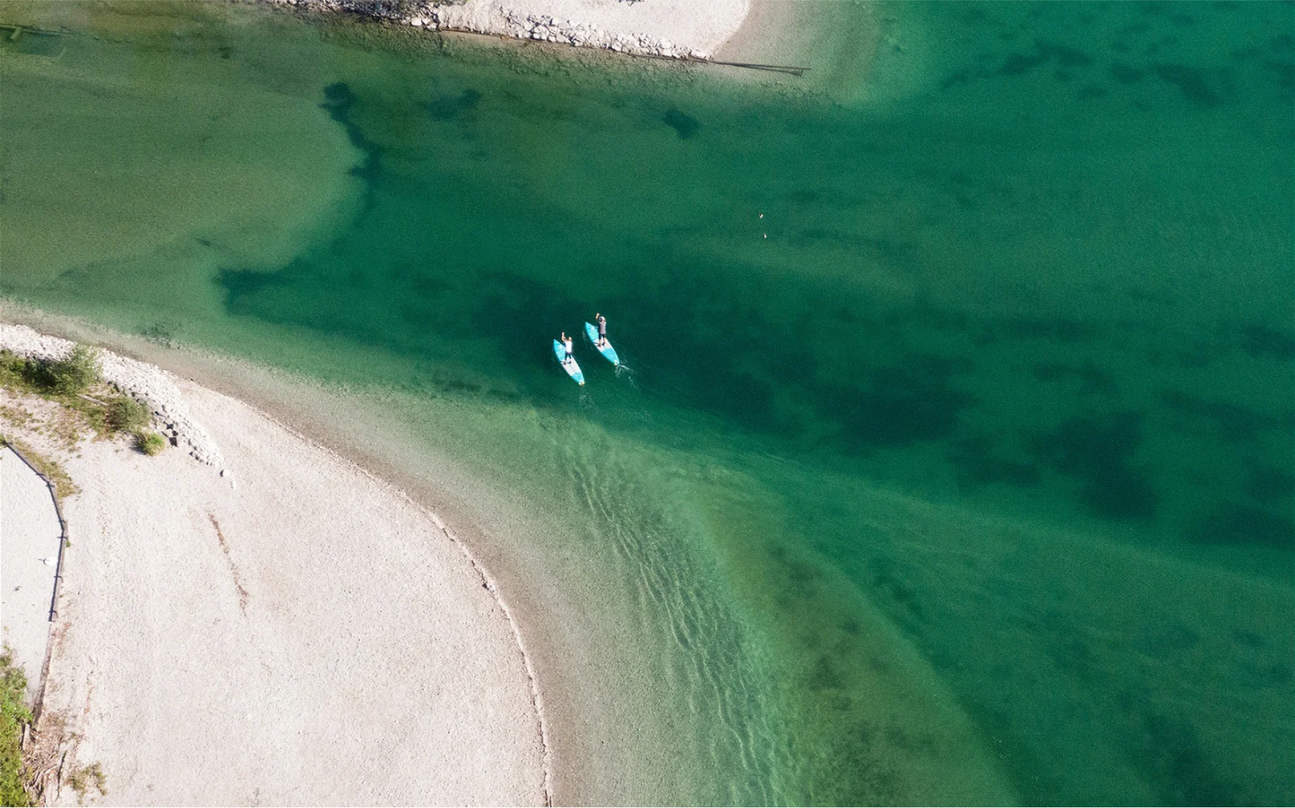
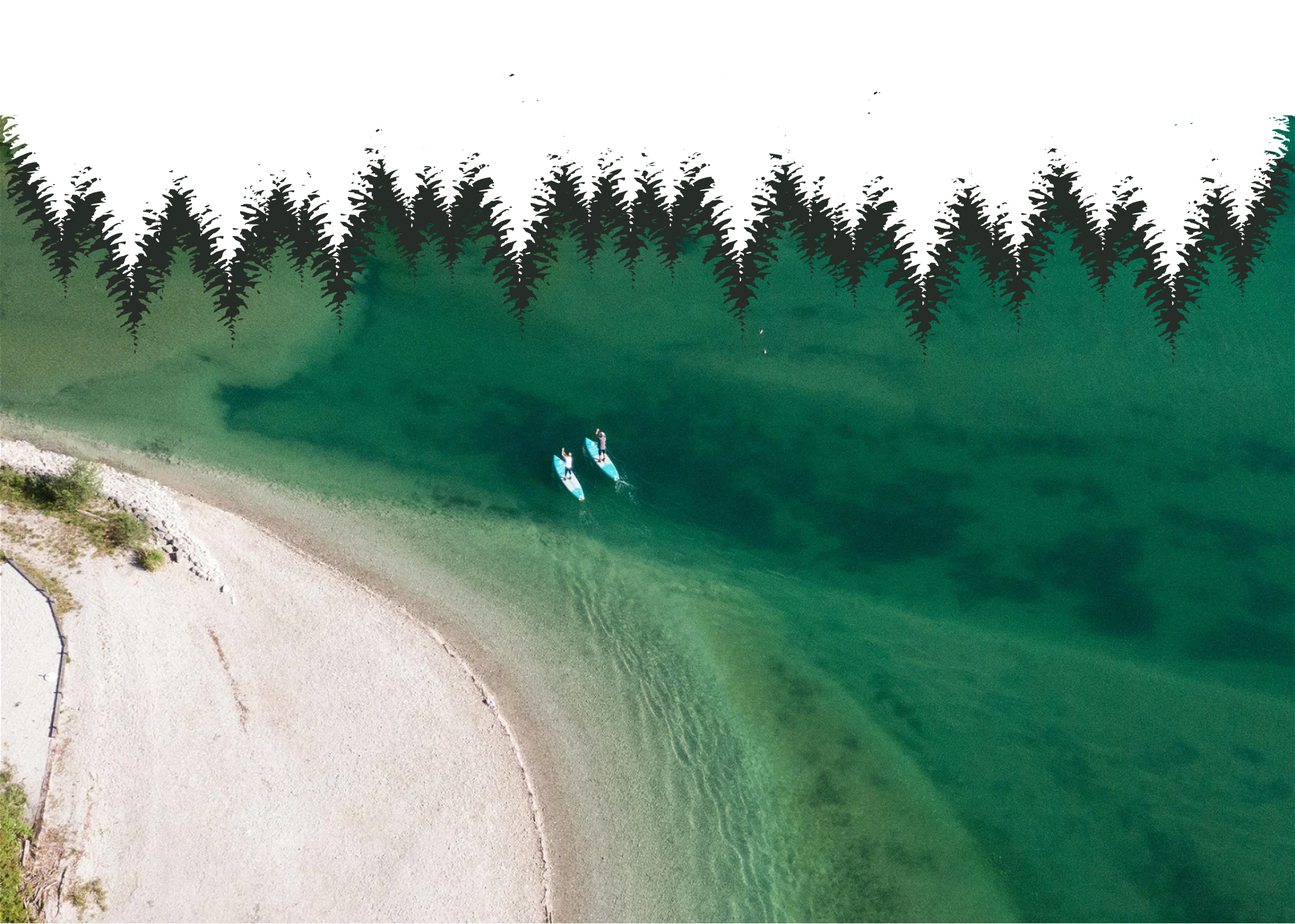
added styles for the technology section

diff --git a/css/style.css b/css/style.css
@@ -32,6 +32,18 @@ ul {
   list-style-type: none;
 }
 
+img {
+  object-fit: cover;
+}
+
+.title {
+  font-family: 'Comfortaa', cursive;
+  text-transform: uppercase;
+  font-size: 60px;
+  line-height: 67px;
+  font-weight: 400;
+}
+
 .container {
   max-width: 1230px;
   padding: 0 15px;
@@ -218,6 +230,7 @@ ul {
   border: none;
   cursor: pointer;
   background-color: transparent;
+  position: absolute;
 }
 
 .popup-btn span {
@@ -275,7 +288,7 @@ ul {
 }
 
 .buy {
-  padding: 150px 0;
+  padding: 150px 0 0;
 }
 
 .buy__inner {
@@ -290,11 +303,7 @@ ul {
 }
 
 .buy__title {
-  font-family: 'Comfortaa', cursive;
-  text-transform: uppercase;
   margin-bottom: 50px;
-  font-size: 60px;
-  line-height: 67px;
   color: #0093A1;
 }
 
@@ -355,6 +364,155 @@ ul {
   background-color: #B9C400;
   border-color: #B9C400;
 }
+
+.technology {
+  margin-bottom: 150px;
+}
+
+.technology__top {
+  background-image: url(../images/technology-bg.png);
+  background-repeat: no-repeat;
+  background-position: center;
+  background-size: cover;
+}
+
+.technology__top-inner {
+  position: relative;
+  min-height: 120vh;
+}
+
+.technology__btn {
+  right: 350px;
+  top: 50vh;
+}
+
+.technology__top-box {
+  position: absolute;
+  left: 0;
+  bottom: 70px;
+}
+
+.technology__title {
+  max-width: 470px;
+  margin-bottom: 62px;
+}
+
+
+.technology__list {
+  margin: 0;
+  padding-left: 20px;
+}
+
+.technology__list-item {
+  padding-left: 24px;
+  font-weight: 700;
+  font-size: 20px;
+  line-height: 24px;
+  margin-bottom: 15px;
+}
+
+.gallery__box {
+  display: flex;
+  gap: 68px;
+  margin-top: 115px;
+}
+
+.gallery__text {
+  width: 350px;
+}
+
+.gallery-min {
+  display: grid;
+  gap: 30px 24px;
+  grid-template-columns: 481px 208px;
+  grid-template-rows: 432px 300px;
+  transform: translateY(-50%);
+  position: relative;
+  padding: 72px 31px 52px;
+}
+
+.gallery-min__img--1 {
+  grid-column: 1 / 3;
+  border-radius: 400px 0 0 0;
+}
+
+.gallery-min__img--2 {
+  border-radius: 0 0 0 300px;
+}
+
+
+.gallery-min::before {
+  content: '';
+  position: absolute;
+  left: 0;
+  right: 0;
+  top: 0;
+  bottom: 0;
+  border: 3px solid #262C27;
+  border-radius: 200px 0 300px;
+}
+
+.gallery-max {
+  display: grid;
+  gap: 20px;
+  grid-template-columns: 300px 469px 391px;
+  grid-template-rows: 340px 270px 270px;
+}
+
+.gallery-max__img--2 {
+  grid-column: 2 / -1;
+  justify-self: end;
+  border-radius: 0 500px 0 0;
+}
+
+.gallery-max__img--3 {
+  border-radius: 0 0 150px 0;
+}
+
+.gallery-max__img--4 {
+  border-radius: 0 200px 0 0;
+}
+
+.gallery-max__img--5 {
+  border-radius: 200px 0 0 0;
+}
+
+.gallery-max__img--6 {
+  grid-column: 2 / -1;
+  border-radius: 0 0 0 400px;
+}
+
+.gallery-max__text {
+  background-color: #0093A1;
+  border-radius: 0 0 0 200px;
+  font-style: italic;
+  font-weight: 800;
+  font-size: 32px;
+  line-height: 39px;
+  color: #FFFFFFFF;
+  display: flex;
+  justify-content: center;
+  text-align: center;
+  align-items: center;
+}
+
+
+
+. {}
+
+. {}
+
+. {}
+
+. {}
+
+. {}
+
+. {}
+
+. {}
+
+. {}
 
 . {}
 

diff --git a/fanatic.html b/fanatic.html
@@ -88,7 +88,7 @@
           <img class="info__top-img" src="images/sup.png" alt="images">
         </div>
         <div class="info__specs">
-          <h3 class="info__specs-title">
+          <h3 class="info__specs-title title">
             SPECS
           </h3>
           <ul class="info__specs-list">
@@ -171,7 +171,7 @@
       <div class="container">
         <div class="buy__inner">
           <div class="buy__content">
-            <h3 class="buy__title">
+            <h3 class="buy__title title">
               RAY AIR POCKET
             </h3>
             <ul class="buy__list">
@@ -242,7 +242,8 @@
                 Play video
               </span>
             </button>
-            <h3 class="technology__title">
+            <div class="technology__top-box">
+            <h3 class="technology__title title">
               MICRO TECHNOLOGY
             </h3>
             <ol class="technology__list">
@@ -262,6 +263,7 @@
                 V-Drop Stitch core
               </li>
             </ol>
+            </div>
           </div>
         </div>
       </div>
@@ -277,22 +279,22 @@
                 regular sized iSUP packed into minimal space.
               </p>
               <div class="gallery-min">
-                <img class="gallery-min__img" src="images/gmin-1.jpg" alt="images">
-                <img class="gallery-min__img" src="images/gmin-2.jpg" alt="images">
+                <img class="gallery-min__img gallery-min__img--1" src="images/gmin-1.jpg" alt="images">
+                <img class="gallery-min__img gallery-min__img--2" src="images/gmin-2.jpg" alt="images">
                 <img class="gallery-min__img" src="images/gmin-3.jpg" alt="images">
               </div>
             </div>
             <div class="gallery-max">
               <img class="gallery-max__img" src="images/gmax-1.jpg" alt="images">
-              <img class="gallery-max__img" src="images/gmax-2.jpg" alt="images">
-              <img class="gallery-max__img" src="images/gmax-3.jpg" alt="images">
-              <img class="gallery-max__img" src="images/gmax-4.jpg" alt="images">
-              <img class="gallery-max__img" src="images/gmax-5.jpg" alt="images">
+              <img class="gallery-max__img gallery-max__img--2" src="images/gmax-2.jpg" alt="images">
+              <img class="gallery-max__img gallery-max__img--3" src="images/gmax-3.jpg" alt="images">
+              <img class="gallery-max__img gallery-max__img--4" src="images/gmax-4.jpg" alt="images">
+              <img class="gallery-max__img gallery-max__img--5" src="images/gmax-5.jpg" alt="images">
               <p class="gallery-max__text">
-                ENJOY
+                ENJOY <br>
                 YOUR LIFE
               </p>
-              <img class="gallery-max__img" src="images/gmax-6.jpg" alt="images">
+              <img class="gallery-max__img gallery-max__img--6" src="images/gmax-6.jpg" alt="images">
             </div>
           </div>
         </div>
